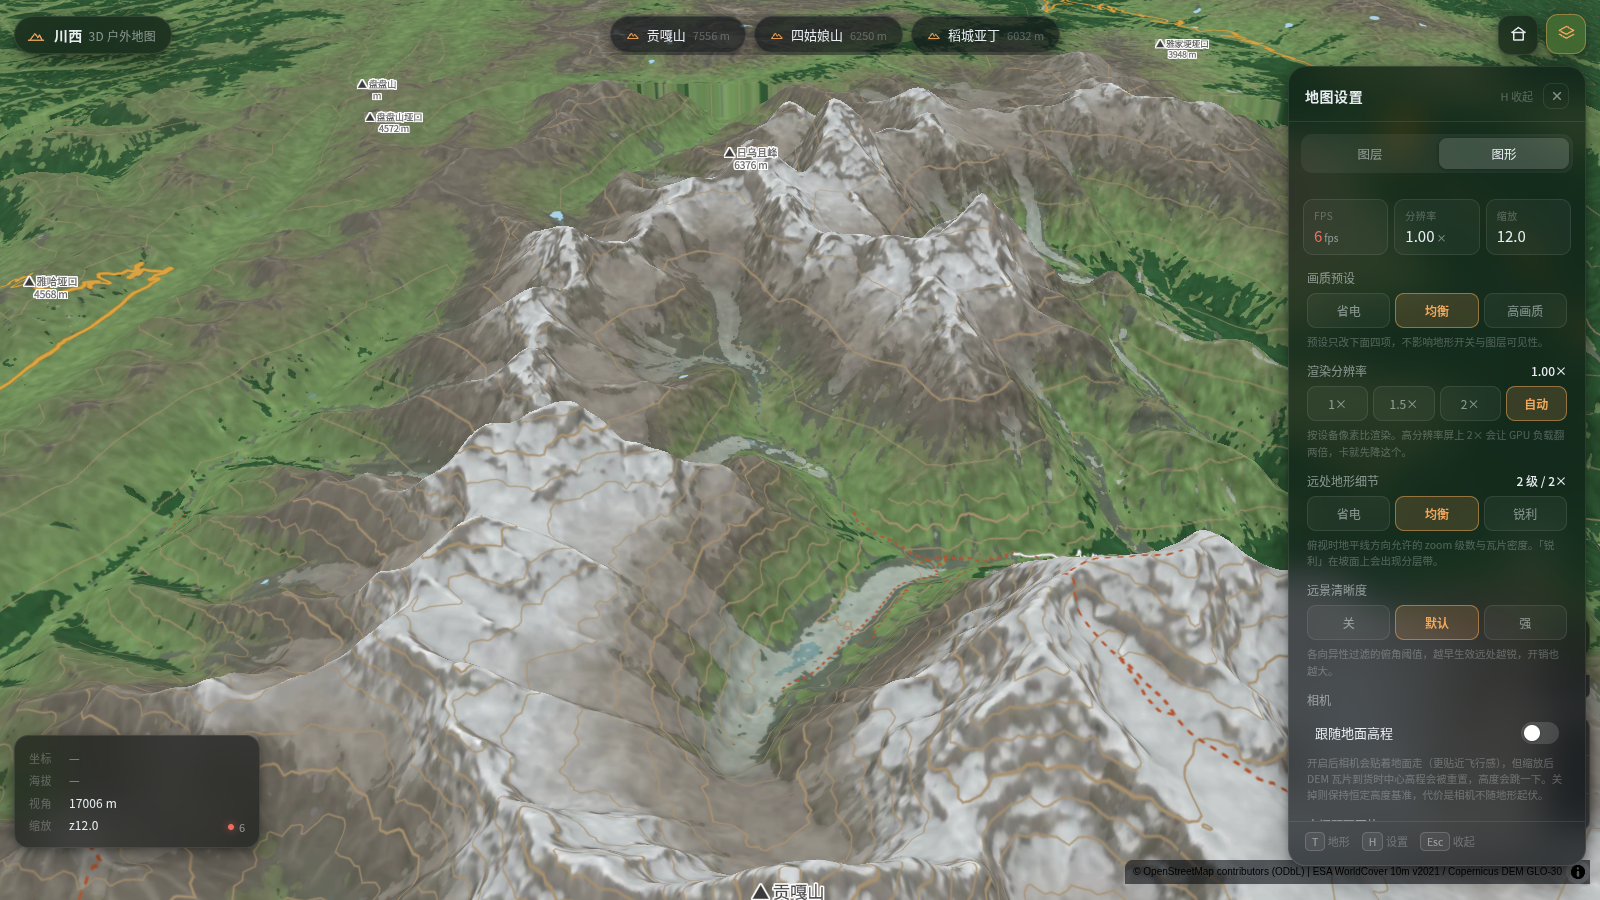
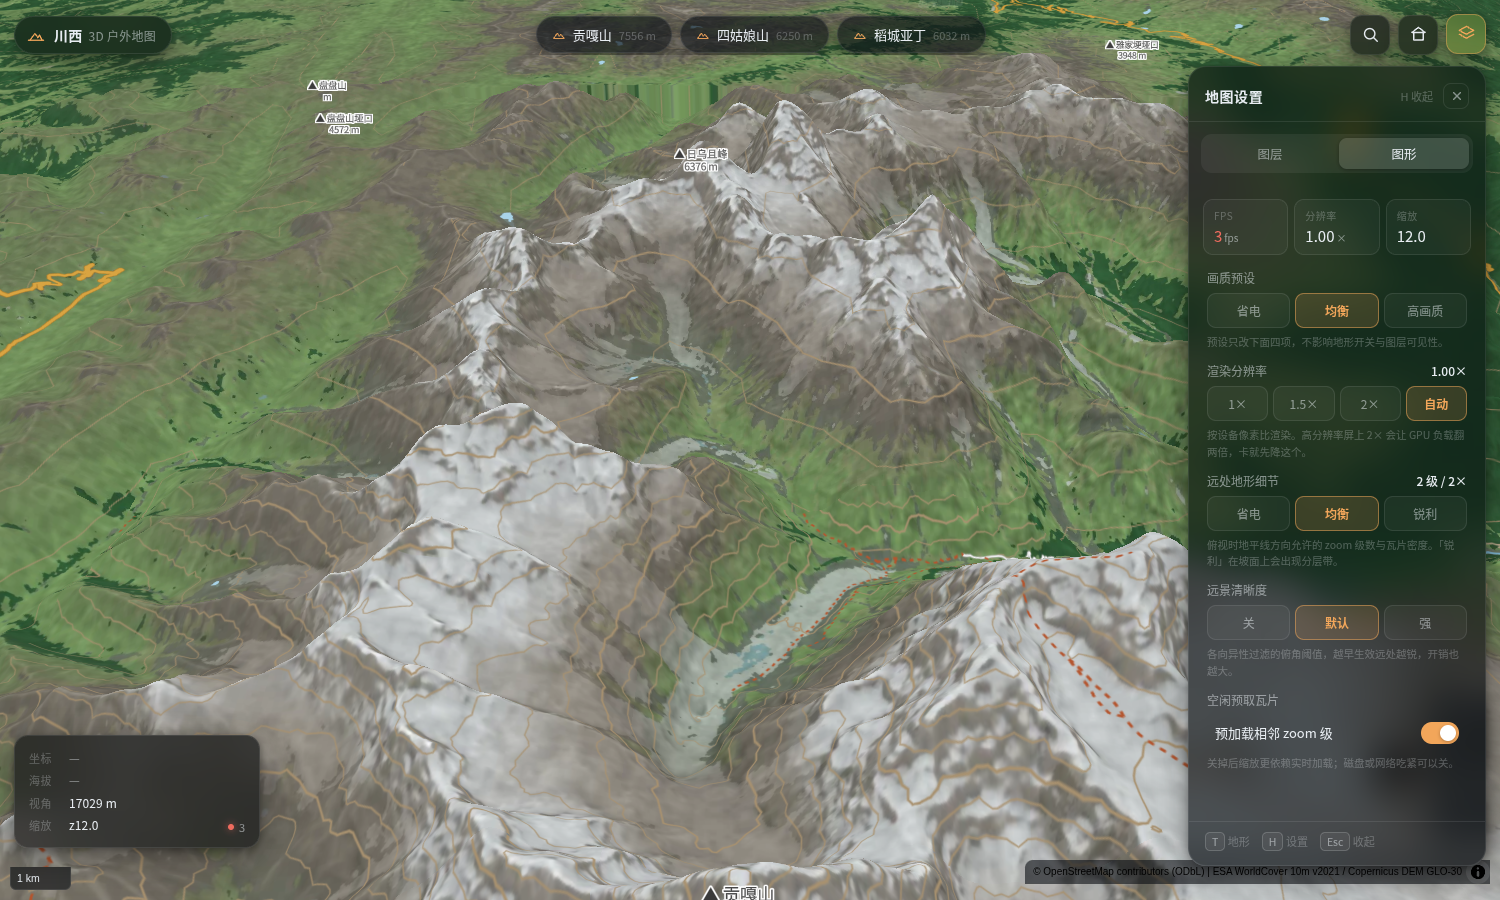
修地图被拽走几百公里：改回每帧跟随地形，只在手势窗口内遮蔽中心钳制
根因是 MapLibre 地形手势结束时用新 DEM 高程重算 center/zoom
（Δe·tan(pitch) 沿视线滑走），之前用 setCenterClampedToGround(false)
永久关掉闸口，连带停掉了每帧跟随地形，造成相机浮空与视差漂移。
改为在 movestart→moveend 之间同时遮蔽 map 与 map._camera 的
getCenterClampedToGround()，静止时恢复。

diff --git a/src/ui/panel.ts b/src/ui/panel.ts
@@ -17,8 +17,6 @@ interface Graphics {
   lod: LodKey;
   aniso: AnisoKey;
   prefetch: boolean;
-  /** 相机中心高程是否跟随地面。关掉可以消除缩放后 DEM 到货引起的高度跳变 */
-  followTerrain: boolean;
 }
 
 interface PanelState {
@@ -38,9 +36,9 @@ const LOD_PARAMS: Record<LodKey, [number, number]> = {
 /** 各向异性过滤生效的俯角阈值：越小越常用、越清晰也越慢 */
 const ANISO_PITCH: Record<AnisoKey, number> = { off: 90, default: 20, strong: 0 };
 const PRESETS: Record<Exclude<PresetKey, 'custom'>, Omit<Graphics, 'preset'>> = {
-  saver: { ratio: '1', lod: 'low', aniso: 'off', prefetch: false, followTerrain: false },
-  balanced: { ratio: 'auto', lod: 'mid', aniso: 'default', prefetch: true, followTerrain: false },
-  high: { ratio: '2', lod: 'high', aniso: 'strong', prefetch: true, followTerrain: false },
+  saver: { ratio: '1', lod: 'low', aniso: 'off', prefetch: false },
+  balanced: { ratio: 'auto', lod: 'mid', aniso: 'default', prefetch: true },
+  high: { ratio: '2', lod: 'high', aniso: 'strong', prefetch: true },
 };
 
 const DEFAULT_STATE: PanelState = {
@@ -54,7 +52,6 @@ const DEFAULT_STATE: PanelState = {
     lod: 'mid',
     aniso: 'default',
     prefetch: true,
-    followTerrain: false,
   },
 };
 
@@ -166,9 +163,6 @@ export function installPanel(map: maplibregl.Map) {
     map.setSourceTileLodParams(levels, ratio);
     map.setAnisotropicFilterPitch(ANISO_PITCH[g.aniso]);
     prefetchState.enabled = g.prefetch;
-    // 关掉「跟随地面高程」：MapLibre 在静止时每帧都会把相机中心高程重置成
-    // 当前 DEM 在该点的值，缩放后新的 DEM 瓦片一到货高程就变，相机高度跟着跳。
-    map.setCenterClampedToGround(g.followTerrain);
   }
 
   // ── 抽屉 ─────────────────────────────────────────────────
@@ -387,19 +381,6 @@ export function installPanel(map: maplibregl.Map) {
     ));
     anisoField.append(el('div', 'note', '各向异性过滤的俯角阈值，越早生效远处越锐，开销也越大。'));
     body.append(anisoField);
-
-    const camField = el('div', 'field');
-    const cl = el('div', 'label');
-    cl.append(el('span', undefined, '相机'));
-    camField.append(cl);
-    const camRow = el('div', 'layer-row');
-    camRow.append(el('span', 'name', '跟随地面高程'));
-    camRow.append(makeSwitch(g.followTerrain, (v) => set({ followTerrain: v })));
-    camField.append(camRow);
-    camField.append(el('div', 'note',
-      '开启后相机会贴着地面走（更贴近飞行感），但缩放后 DEM 瓦片到货时中心高程会被重置，' +
-      '高度会跳一下。关掉则保持恒定高度基准，代价是相机不随地形起伏。'));
-    body.append(camField);
 
     const pfField = el('div', 'field');
     const pfl = el('div', 'label');

diff --git a/src/ui/gestures.ts b/src/ui/gestures.ts
@@ -1,6 +1,49 @@
 import type * as maplibregl from 'maplibre-gl';
 
 /**
+ * 抹掉「地形手势结束时的相机回弹」。
+ *
+ * MapLibre 在地形手势期间会冻结相机高程（拖动时保持等高），手势一结束就用**新采样**的
+ * DEM 高程去对账：调 `transform.recalculateZoomAndCenter`，保持相机 3D 位置不动，
+ * 反过来重算 center 和 zoom。俯角很陡时，冻结值与新值的差 Δe 会沿视线把中心滑走
+ * `Δe · tan(pitch)`（85° 时约 11 倍）——在川西这种落差上就是「地图突然跑到几百公里外」。
+ *
+ * 官方给的解法：**只在手势窗口内**把 `getCenterClampedToGround()` 遮成 false，
+ * 不要动字段本身。因为 v6 里有两个闸口会读它：
+ *   · HandlerManager 读 Map 上的同名方法
+ *   · Camera._finalizeElevation 读 `map._camera` 上的方法
+ * 两个都得遮，且只能在 movestart→moveend 之间遮——静止时还要靠它每帧跟随地形，
+ * 永久关掉会让相机「浮」在那里，平移时产生视差漂移（我们之前就是这么干的）。
+ */
+
+export function preventTerrainGestureSnap(map: maplibregl.Map) {
+  const gates: any[] = [map as any, (map as any)._camera].filter(
+    (g) => g && typeof g.getCenterClampedToGround === 'function',
+  );
+  const saved = new Map<any, () => boolean>();
+  let depth = 0;
+
+  const engage = () => {
+    if (depth++ > 0) return;
+    for (const gate of gates) {
+      saved.set(gate, gate.getCenterClampedToGround);
+      gate.getCenterClampedToGround = () => false;
+    }
+  };
+  const release = () => {
+    if (depth === 0 || --depth > 0) return;
+    for (const [gate, fn] of saved) gate.getCenterClampedToGround = fn;
+    saved.clear();
+  };
+
+  map.on('movestart', engage);
+  map.on('moveend', release);
+  // 保险：动画被打断时 moveend 可能不来
+  map.on('remove', release);
+  return release;
+}
+
+/**
  * Alt + 左键 = 绕屏幕中心旋转视角（MapLibre 原来 Shift 拖动的行为）。
  *
  * Shift + 左键已经交给 MapLibre 的 `dragRotate: { around: 'pointer' }`，
@@ -39,6 +82,7 @@ function patchHandlers(map: maplibregl.Map) {
 }
 
 export function installGestures(map: maplibregl.Map) {
+  preventTerrainGestureSnap(map);
   patchHandlers(map);
   installAltRotate(map);
 }

diff --git a/NOTES.md b/NOTES.md
@@ -336,3 +336,52 @@ patch(dragPan,   e => e.button===0 && !e.shiftKey && !e.ctrlKey && !e.altKey);
 bearing ≠ 0 时，地形 drape 的 **relief 栅格**会出现绿色竖向条纹 + 少量黑色碎片
 （`terrain` 开、`relief` 层隐藏后消失）。在 SwiftShader 下稳定复现，
 关掉各向异性过滤无效。怀疑是 MapLibre 旋转后 RTT 贴图变换的问题，需要真机确认。
+
+## 修：地图「突然跑到几百公里外」（2026-10-22）
+
+### 根因（MapLibre 已知行为）
+地形手势期间 MapLibre 会**冻结相机高程**（拖动时保持等高）。手势一结束，
+它拿冻结值和新采样的 DEM 高程对账，调 `transform.recalculateZoomAndCenter`：
+保持相机 3D 位置不动，反过来重算 **center 和 zoom**。俯角陡的时候，
+Δe 会沿视线把中心滑走 `Δe · tan(pitch)`（85° 约 11 倍），同时 zoom 被重算，
+于是「停手的一瞬间地图被拽走一大截」。平地上几米的高程差就能看出来，
+川西这种落差上直接是几公里起步，叠加 zoom 重算就是「跑出几百公里」。
+
+### 之前那版为什么是反的
+我上次为了消掉「放大后 DEM 到货导致高度跳变」，直接把
+`setCenterClampedToGround(false)` 永久写死。这个字段同时也管**每帧跟随地形**，
+关掉之后相机会「浮」在旧高程上：
+- 平移时地形从相机下面穿过去 → 视差漂移
+- 中心高程永远不更新 → 地形一换就各种异常
+
+也就是说：修好了小毛病，引入了大毛病。
+
+### 正确解法
+只在**手势窗口内**把 `getCenterClampedToGround()` 遮成 false，字段不动
+（`src/ui/gestures.ts` 的 `preventTerrainGestureSnap`）。
+
+v6 里有两个闸口会读这个方法，必须都遮：
+- `HandlerManager` 读 Map 上的同名方法
+- `Camera._finalizeElevation` 读 `map._camera` 上的方法
+
+静止时恢复真实方法，每帧跟随地形照常工作。
+
+实测：
+| 检查 | 结果 |
+|---|---|
+| 静止时 `getCenterClampedToGround()` | true |
+| 拖动中 | false |
+| 松手后 | true |
+| 松手瞬间中心位移（pitch 78 跨地形） | **0 km** |
+| 静止后滚轮缩放，中心高程是否跟随 | 5702 → 5945（跟随正常） |
+
+**代价**：缩放结束后新 DEM 瓦片到货时，相机仍有约 64 m 的小跳（z13 约 4 px）。
+这是「每帧跟随地形」换来的，比之前那套「float + 回弹」好得多。
+
+参考：
+- MapLibre 地形手势回弹的成因与解法（bitruvius SDK 的 `preventTerrainGestureSnap` 文档）
+  https://cdn.bitruvius.com/sdk/v0.3.2/docs/functions/_bitruvius_sdk-maplibre.preventTerrainGestureSnap.html
+- GeoLibre 同类修复：unclamp map center while terrain is on
+  https://github.com/opengeos/GeoLibre/commit/9cfc1f672078f7057309907068cabeb4a3c26e54
+
+同时移除了图形设置里的「相机 › 跟随地面高程」开关（不再需要，字段改由手势窗口控制）。
